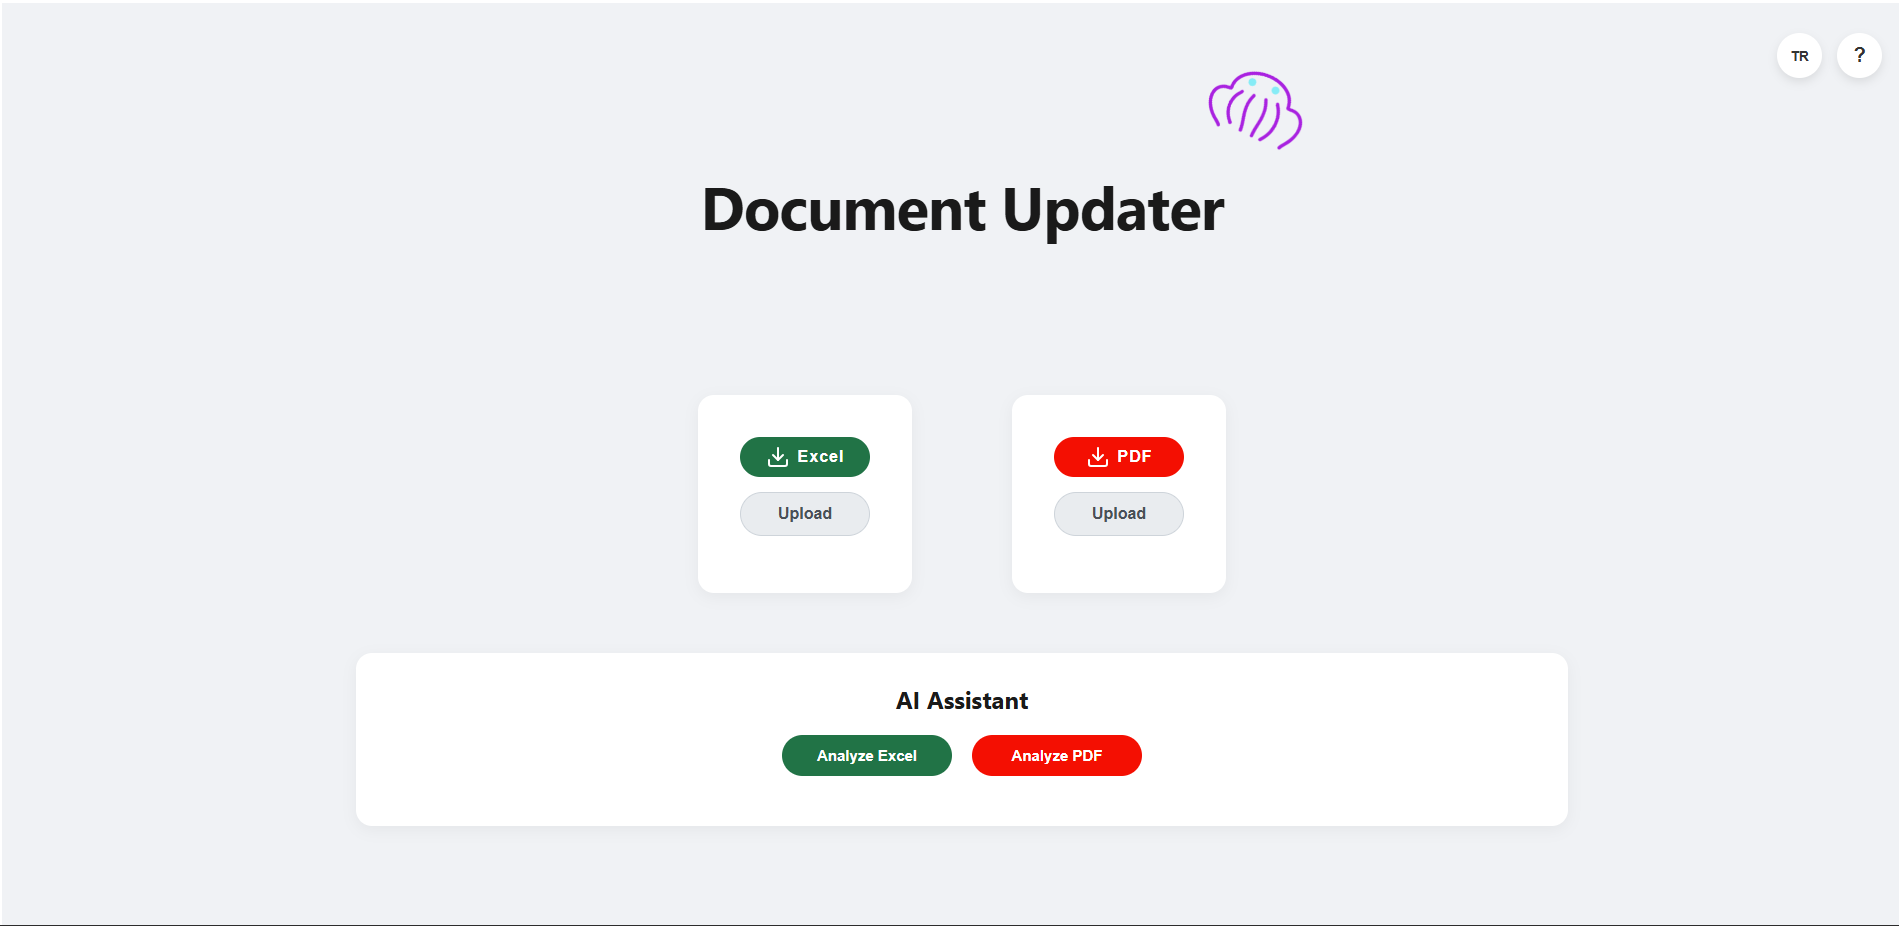
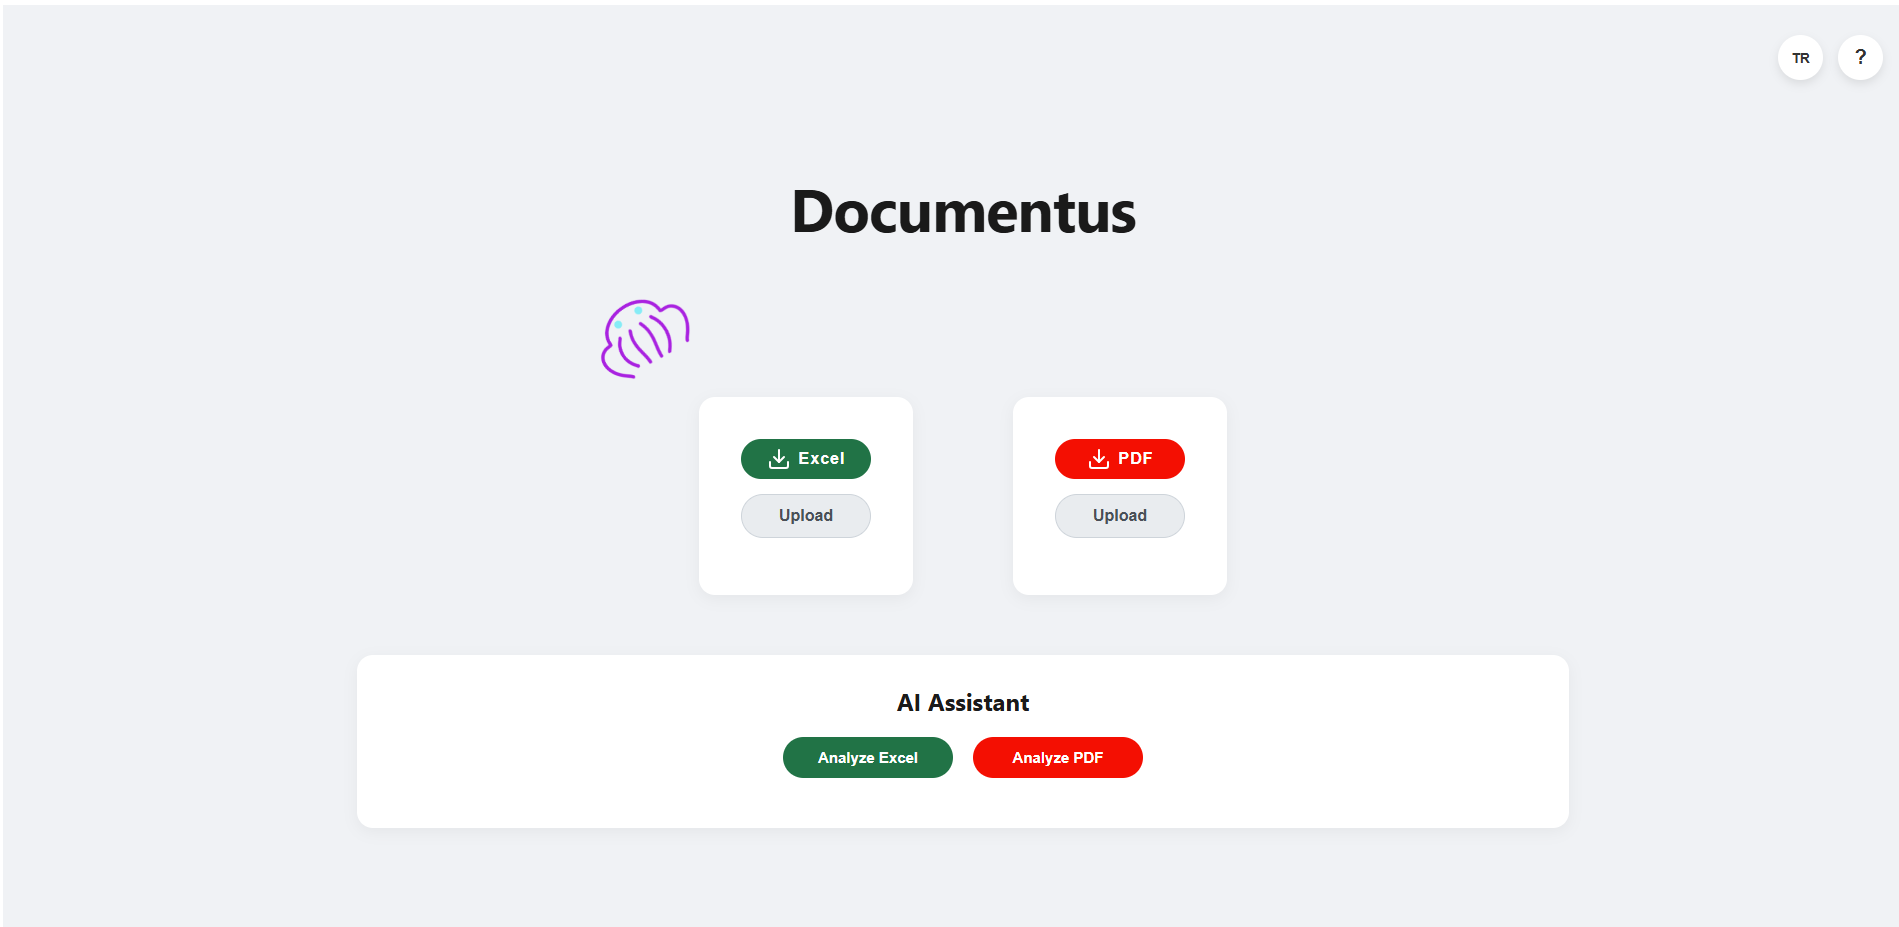
cv

diff --git a/frontend/src/translations.js b/frontend/src/translations.js
@@ -1,6 +1,6 @@
 export const translations = {
   tr: {
-    title: "Document Updater",
+    title: "Documentus",
     excelBtn: "Excel",
     pdfBtn: "PDF",
     uploadBtn: "Yükle",
@@ -32,7 +32,7 @@ export const translations = {
     langSwitchTooltip: "Switch to English"
   },
   en: {
-    title: "Document Updater",
+    title: "Documentus",
     excelBtn: "Excel",
     pdfBtn: "PDF",
     uploadBtn: "Upload",

diff --git a/frontend/index.html b/frontend/index.html
@@ -4,7 +4,7 @@
     <meta charset="UTF-8" />
     <link rel="icon" type="image/svg+xml" href="/favicon.svg" />
     <meta name="viewport" content="width=device-width, initial-scale=1.0" />
-    <title>Document Updater</title>
+    <title>Documentus</title>
   </head>
   <body>
     <div id="root"></div>